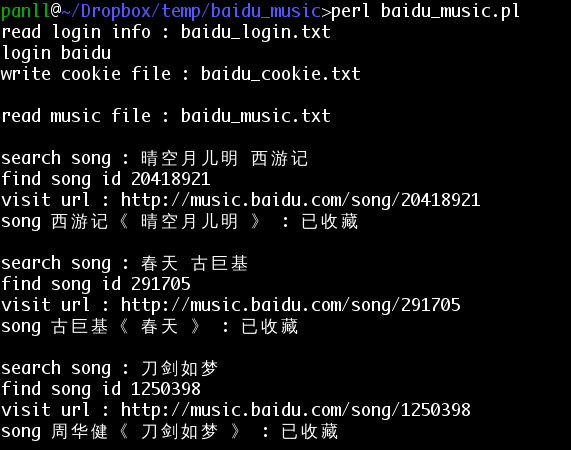
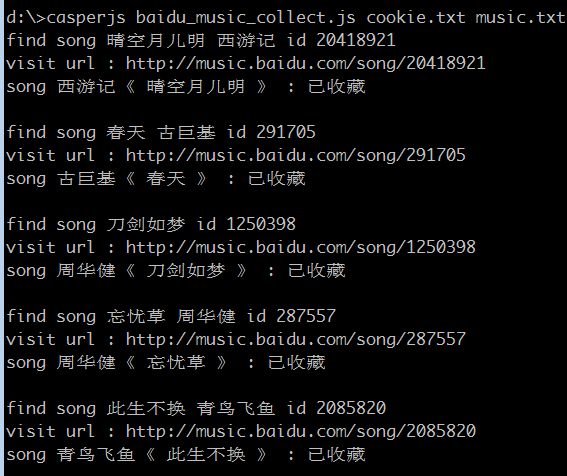
not use perl

Changed region(s): [[0.0, 0.0, 1.0, 1.0]]

diff --git a/baidu_music_collect/baidu_music_collect.js b/baidu_music_collect/baidu_music_collect.js
@@ -1,0 +1,95 @@
+//abstract: collect song on baidu music site
+//usage: casperjs baidu_music_collect.js cookie_file music_file
+
+var x = require('casper').selectXPath;
+var fs = require('fs');
+var system = require('system');
+var utils = require('utils');
+
+var casper = require('casper').create({
+    //{logLevel: 'debug', verbose: true}, 
+    pageSettings: {
+        loadImages:  false,        
+    loadPlugins: false  // not load NPAPI plugins (Flash, Silverlight, ...)
+    }
+}
+);
+casper.userAgent('Mozilla/5.0 (Windows NT 6.1; Win64; x64; rv:18.0) Gecko/20130119 Firefox/18.0');
+
+var cookie_file = casper.cli.get(0);
+var data = fs.read(cookie_file);
+phantom.cookies = JSON.parse(data);
+
+var music_file = casper.cli.get(1);
+var music_list = read_music_file(music_file);
+
+casper.start('http://music.baidu.com');
+casper.each(music_list, function(self, item){
+    search_song(item[0],item[1], collect_song);
+});
+casper.run();
+
+
+function read_music_file(f) {
+//line : title artist
+    var music_data = fs.read(f).match(/[^\r\n]+/g);
+    var res = new Array();
+    for(var m in music_data){
+        var info = music_data[m].match(/^(.+?)\s+(.+)$/) 
+            || music_data[m].match(/^\s*(\S.*)$/);
+        if(!info) continue;
+        info.shift();
+        res.push(info);
+    }
+    return res;
+}
+
+function search_song (title, artist , callback){
+    var key = title;
+    if(artist) key +=" "+artist;
+    //console.log('search song : ' + key + "\n");
+
+    var music_url = 'http://music.baidu.com';
+    casper.thenOpen(music_url);
+    casper.wait(1000, function(){
+        this.fill('form[action="/search"]', { key : key }, true);
+    });
+
+    casper.wait(1000, function(){
+        var song_x = artist ? '//a/em[text()="' + artist + '"]//ancestor::div[@class="song-item clearfix"]' : '';
+        song_x +="//span[@class='song-title']//a[@title='" + title + "']";
+        var collect_x = x(song_x);
+        if (this.exists(collect_x)) {
+            var id = this.getElementAttribute(collect_x,'href');
+            var song_id = id.replace(/#.*/, '').replace(/^.*\//, '');
+            console.log('find song '+ key + ' id ' + song_id);
+            if(callback) callback(song_id);
+        }
+    });
+}
+
+function collect_song(song_id) {
+
+    casper.then(function(){
+        if(!song_id) return;
+        var collect_url = 'http://music.baidu.com/song/' + song_id;
+
+        this.thenOpen(collect_url, function(){
+            console.log("visit url : " + collect_url);
+
+            var collect_x  = x('//span[text()="收藏"]/parent::span/parent::a');
+            if (this.exists(collect_x)) {
+                console.log("click collect button : "+song_id);
+                this.click(collect_x);
+            }
+
+            this.wait(1000, function() {
+                var artist = this.getElementAttribute('span[class="author_list"]', 'title')
+                var title = this.fetchText('span[class="name"]');
+            status = this.fetchText('div[class="song-page-share clearfix"] span span');
+            status = status.replace('分享','');
+            console.log("song "+ artist + "《 " + title +" 》 : " + status+"\n");
+            });
+        });
+    });
+}

diff --git a/baidu_music_collect/old/baidu_collect_song.js b/baidu_music_collect/old/baidu_collect_song.js
@@ -1,0 +1,85 @@
+//var casper = require('casper').create({logLevel: 'debug', verbose: true});
+var casper = require('casper').create(
+    {
+    pageSettings: {
+        loadImages:  false,        // do not load images
+        loadPlugins: false         // do not load NPAPI plugins (Flash, Silverlight, ...)
+    }
+}
+);
+casper.userAgent('Mozilla/5.0 (Windows NT 6.1; Win64; x64; rv:18.0) Gecko/20130119 Firefox/18.0');
+var x = require('casper').selectXPath;
+var fs = require('fs');
+var system = require('system');
+var utils = require('utils');
+
+var cookie_file = casper.cli.get(0);
+var data = fs.read(cookie_file);
+phantom.cookies = JSON.parse(data);
+
+var title = casper.cli.get(1);
+var artist = casper.cli.get(2);
+
+casper.start();
+
+var song_id = 0;
+search_song( title, artist );
+collect_song();
+casper.run();
+
+function collect_song() {
+    casper.then(function(){
+        if(song_id==0) return;
+        var collect_url = 'http://music.baidu.com/song/' + song_id;
+
+        this.thenOpen(collect_url, function(){
+            console.log("visit url : " + collect_url);
+
+            var collect_x  = x('//span[text()="收藏"]/parent::span/parent::a');
+            if (this.exists(collect_x)) {
+                console.log("click collect button : "+song_id);
+                this.click(collect_x);
+            }
+
+            this.wait(1000, function() {
+                var artist = this.getElementAttribute('span[class="author_list"]', 'title')
+                var title = this.fetchText('span[class="name"]');
+                status = this.fetchText('div[class="song-page-share clearfix"] span span');
+                status = status.replace('分享','');
+                console.log("song "+ artist + "《 " + title +" 》 : " + status+"\n");
+            });
+        });
+    });
+}
+
+function search_song (title, artist){
+    song_id = 0;
+
+    var key = title;
+    if(artist) key +=" "+artist;
+    console.log('search song : ' + key);
+
+    var music_url = 'http://music.baidu.com';
+    casper.thenOpen(music_url);
+    casper.wait(1000, function(){
+        this.fill('form[action="/search"]', { key : key }, true);
+    });
+
+    casper.wait(1000, function(){
+        //fs.write('baidu_login.html', this.getHTML('div[monkey="song-list"]'), 'w');
+    });
+
+    casper.then(function(){
+        var song_x = artist ? '//a/em[text()="' + artist + '"]//ancestor::div[@class="song-item clearfix"]' : '';
+        song_x +="//span[@class='song-title']//a[@title='" + title + "']";
+        var collect_x = x(song_x);
+        if (this.exists(collect_x)) {
+            var id = this.getElementAttribute(collect_x,'href');
+            song_id = id.replace(/#.*/, '').replace(/^.*\//, '');
+        }
+    });
+
+    casper.then(function(){
+        console.log('find song id ' + song_id);
+    });
+}

diff --git a/baidu_music_collect/baidu_login.js b/baidu_music_collect/baidu_login.js
@@ -1,12 +1,16 @@
-//var casper = require('casper').create({logLevel: 'debug', verbose: true});
+//abstract: login baidu with usr & passwd, write cookie to file
+//usage: casperjs baidu_login.js someusr somepasswd cookie_file
+
 var casper = require('casper').create({
-  pageSettings: {
-        loadImages:  false,        // do not load images
-        loadPlugins: false         // do not load NPAPI plugins (Flash, Silverlight, ...)
+    //{logLevel: 'debug', verbose: true}, 
+    pageSettings: {
+        loadImages:  false,        
+    loadPlugins: false  // not load NPAPI plugins (Flash, Silverlight, ...)
     }
 }
 );
 casper.userAgent('Mozilla/5.0 (Windows NT 6.1; Win64; x64; rv:18.0) Gecko/20130119 Firefox/18.0');
+
 var fs = require('fs');
 
 var usr = casper.cli.get(0);

diff --git a/baidu_music_collect/README.md b/baidu_music_collect/README.md
@@ -4,18 +4,20 @@ baidu_music_collect
 
 * 用法示例
 
-假设脚本位于 d:\software\script\baidu_music，其中 
+假设脚本位于 d:\baidu_music，其中 
 
-baidu_login.txt 为登录用户名及密码
-
-baidu_music.txt 为希望收藏的音乐，一行一首歌，歌名在前（必填），歌手在后（可不填）
+- someusr 为用户名，somepasswd 为密码
+- cookie.txt 为存放该用户cookie的文件名
+- music.txt 为希望收藏的音乐，一行一首，歌名在前（必填），歌手在后（可不填）
 
 ```
 d:
 
-cd d:\software\script\baidu_music
+cd d:\baidu_music
 
-perl baidu_music.pl
+casperjs baidu_login.js someusr somepasswd cookie.txt
+
+casperjs baidu_music_collect.js cookie.txt music.txt
 ```
 ![baidu_music.png](baidu_music.png)
 
@@ -36,7 +38,3 @@ windows下需要把 phantomjs 目录加入PATH环境变量
 http://casperjs.org/
 
 windows下需要把 casperjs/batchbin 目录加入PATH环境变量
-
-**  安装 perl
-
-windows版本可选用：http://strawberryperl.com/
